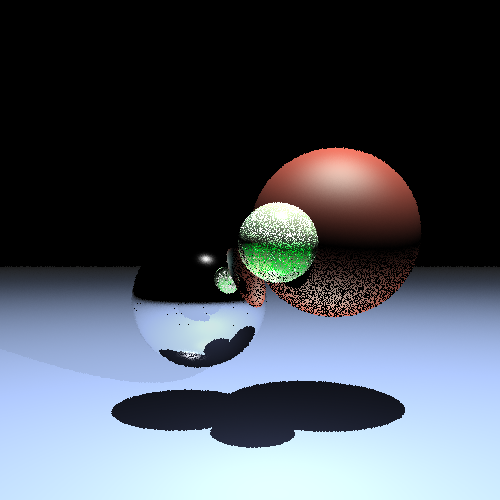
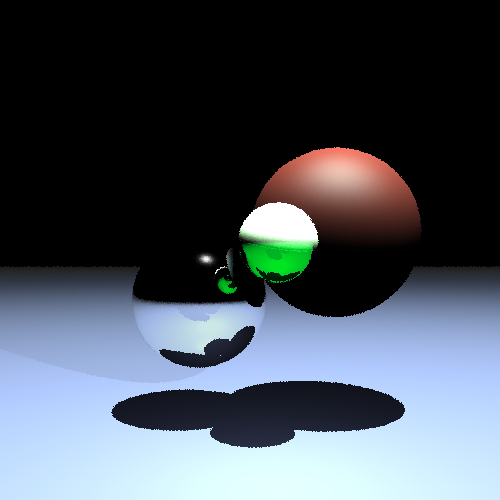
contunue shadows

Changed region(s): [[0.42, 0.39, 0.84, 0.63], [0.36, 0.69, 0.42, 0.72]]

diff --git a/src/Objects/Light.java b/src/Objects/Light.java
@@ -127,13 +127,12 @@ public class Light {
 				
 				Vector direction = new Vector(position, point);
 				Ray ray = new Ray(position, direction);
-				
-				boolean isInterfered = false;
+								
 				for (Surface surface1 : scene.getSurfaces())
 				{
 					Point p = surface1.findClosestIntesectionWithRay(ray);
 					
-					if ( p != null && p.FindDistanceFromPoint(point) != 0 )
+					if ( p != null )
 					{
 						counter++;
 						break;
@@ -142,7 +141,13 @@ public class Light {
 			}
 		}
 		
-		return (float) (counter / (N*N));
+		return (float) ( ((N*N) - counter) / (N*N));
+	}
+	
+	public float computeHardShadows(Ray rayToLight)
+	{
+		
+		return 0;
 	}
 	
 	public float getR() {
